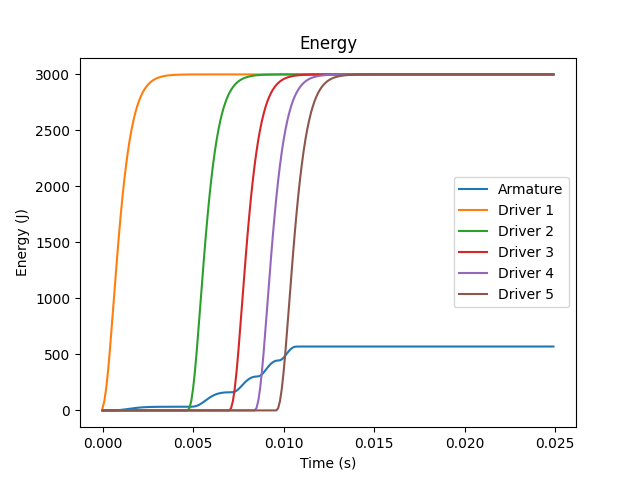
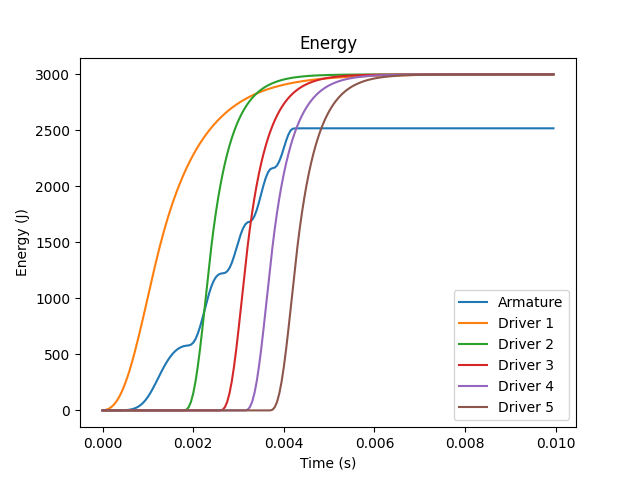
Crowbar diode + optimization algorithm

diff --git a/Simulation/main.py b/Simulation/main.py
@@ -8,39 +8,38 @@ copper = parameters.copper
 
 # Coils
 # Material, inner radius, length, layers, wire diameter):
-armature = classes.Coil(copper, 0.0125, 0.1, 1, 0.00205)
+armature = classes.Coil(copper, 0.0125, 0.1, 1, 0.001024)
 
 driver1 = classes.Coil(copper, 0.015, 0.1, 2, 0.00205)
-driver2 = classes.Coil(copper, 0.015, 0.1, 2, 0.00205)
-driver3 = classes.Coil(copper, 0.015, 0.1, 2, 0.00205)
-driver4 = classes.Coil(copper, 0.015, 0.1, 2, 0.00205)
-driver5 = classes.Coil(copper, 0.015, 0.1, 2, 0.00205)
+driver2 = classes.Coil(copper, 0.015, 0.1, 1, 0.00205)
+driver3 = classes.Coil(copper, 0.015, 0.1, 1, 0.00205)
+driver4 = classes.Coil(copper, 0.015, 0.1, 1, 0.00205)
+driver5 = classes.Coil(copper, 0.015, 0.1, 1, 0.00205)
 
 # Stages
-# Coil, position, trigger position, capacitance, voltage
-stage1 = classes.Stage(driver1, 0.0, 0.0, 0.003 * 2, 1000)
+# Coil, position, trigger position, capacitance, charge voltage
+stage1 = classes.Stage(driver1, 0, 0, 0.003 * 2, 1000)
 stage2 = classes.Stage(driver2, 0.1, 0.1, 0.003 * 2, 1000)
 stage3 = classes.Stage(driver3, 0.2, 0.2, 0.003 * 2, 1000)
 stage4 = classes.Stage(driver4, 0.3, 0.3, 0.003 * 2, 1000)
 stage5 = classes.Stage(driver5, 0.4, 0.4, 0.003 * 2, 1000)
 
 # Projectile
-# Coil, position, mass
+# Coil, initial position, mass
 projectile = classes.Projectile(armature, 0.01, 0.1)
 
 stage_list = [stage1, stage2, stage3, stage4, stage5]
 efficiency = []
 
-runtime = 0.025
-timestep = 0.0001
+runtime = 0.01
+timestep = 0.00005
 
 for step in np.arange(0, runtime, timestep):
     # Timestep, step, driver list, projectile
     output = run.run_turn(timestep, stage_list, projectile)
 
     driver_energy_sum = driver1.energy + driver2.energy + driver3.energy + driver4.energy + driver5.energy
-    efficiency.append(armature.energy / driver_energy_sum + 0.001)
-
+    efficiency.append(armature.energy / (driver_energy_sum + 0.001))
 
 time = np.arange(0, runtime, timestep)
 
@@ -54,10 +53,10 @@ v.plot(time, projectile.velocity_list)
 v.set(xlabel='Time (s)', ylabel='Velocity (m/s)', title='Projectile Velocity')
 figv.savefig("vel.png")
 
-# figa, p = plt.subplots()
-# p.plot(time, projectile.acceleration_list)
-# p.set(xlabel='Time (s)', ylabel='Acceleration (m/s^2)', title='Projectile Acceleration')
-# figa.savefig("accel.png")
+figa, p = plt.subplots()
+p.plot(time, projectile.acceleration_list)
+p.set(xlabel='Time (s)', ylabel='Acceleration (m/s^2)', title='Projectile Acceleration')
+figa.savefig("accel.png")
 
 figi, i = plt.subplots()
 i.plot(time, projectile.coil.currents_list)
@@ -66,6 +65,14 @@ for stage in range(len(stage_list)):
 i.set(xlabel='Time (s)', ylabel='Currents (A)', title='Currents')
 i.legend(['Armature', 'Driver 1', 'Driver 2', 'Driver 3', 'Driver 4', 'Driver 5'])
 figi.savefig("currents.png")
+
+figv, v = plt.subplots()
+v.plot(time, projectile.coil.voltage_list)
+for stage in range(len(stage_list)):
+    v.plot(time, stage_list[stage].coil.voltage_list)
+v.set(xlabel='Time (s)', ylabel='Voltages (V)', title='Voltages')
+v.legend(['Armature', 'Driver 1', 'Driver 2', 'Driver 3', 'Driver 4', 'Driver 5'])
+figv.savefig("voltages.png")
 
 fign, n = plt.subplots()
 n.plot(time, efficiency)

diff --git a/Simulation/classes.py b/Simulation/classes.py
@@ -6,9 +6,12 @@ import numpy as np
 class Coil:
     def __init__(self, material, r_inner, length, layers, wire_d):
         self.current = 0
+        self.voltage = 0
         self.energy = 0
         self.temp = parameters.ambient_temp
         self.time_on = 0
+        self.peak_current = 0
+        self.diode_step = 0
 
         self.r_inner = r_inner
         self.length = length
@@ -19,7 +22,7 @@ class Coil:
         self.layer_turns = []
         for l in range(layers):
             self.layer_turns.append(round(length / wire_d))
-            print("Layer", l, self.layer_turns[l], "Turns")
+            # print("Layer", l, self.layer_turns[l], "Turns")
 
         self.r_outer = r_inner + (layers - 1) * wire_d
         self.r_avg = (r_inner + self.r_outer) / 2
@@ -37,28 +40,41 @@ class Coil:
         self.tau = self.inductance / self.resistance
 
         self.currents_list = []
+        self.voltage_list = []
         self.energy_list = []
         self.temperature_list = []
 
-        print("Wire Length", self.wire_length, "m")
-        print("Wire Mass", self.wire_mass, "kg")
+        # print("Wire Length", self.wire_length, "m")
+        # print("Wire Mass", self.wire_mass, "kg")
         print("Turns", self.turns)
-        print("mass", self.wire_mass, "kg")
+        print("Coil Length", self.length)
+        print("Wire Diameter", self.wire_d)
+        print("Layers", self.layers)
+        # print("Resistance", self.wire_resistance, "Ohm")
+        # print("Inductance", self.inductance, "H")
+
+    def __str__(self):
+        return f"Coil, {self.turns}({self.layers})"
 
 
 class Stage:
-    def __init__(self, coil, position, trigger_position, capacitance, voltage):
+    def __init__(self, coil, position, trigger_position, capacitance, initial_voltage):
         self.coil = coil
         self.pos = position  # Refers to axial distance of coil center
         self.trigger_pos = trigger_position
 
         self.capacitance = capacitance
-        self.voltage = voltage
+        self.initial_voltage = initial_voltage
+        self.voltage = 0
 
-        coil.resistance = 2 * math.sqrt(coil.inductance / self.capacitance)
-        coil.added_resistance = coil.resistance - coil.wire_resistance
         coil.pos = position
-        print("Added resistance", coil.added_resistance, "Ohms")
+        # coil.resistance = 2 * math.sqrt(coil.inductance / self.capacitance)
+        # coil.added_resistance = coil.resistance - coil.wire_resistance
+        # coil.tau = coil.inductance / coil.resistance
+        # print("Added resistance", coil.added_resistance, "Ohms")
+
+    def __str__(self):
+        return f"Driver, {self}({self.pos})"
 
 
 class Projectile:
@@ -74,6 +90,9 @@ class Projectile:
         self.velocity_list = []
         self.acceleration_list = []
         self.energy_list = []
+
+    def __str__(self):
+        return f"Projectile, {self}({self.pos})"
 
 
 class Material:

diff --git a/Simulation/methods.py b/Simulation/methods.py
@@ -22,7 +22,6 @@ def mutual_inductance(stage, projectile):
                     k_e = sp.special.ellipe(pow(k, 2))
 
                     M += -parameters.mu0 * math.sqrt(r1_eff * r2_eff) * ((k - 2 / k) * k_k + 2 / k * k_e)
-
     return M
 
 
@@ -31,9 +30,33 @@ def solve_currents(stage, projectile, driver_step, armature_step):
     driver = stage.coil
     M = mutual_inductance(stage, projectile)
 
-    driver.current = stage.voltage / driver.inductance * driver_step * \
-                          pow(math.e, -driver.resistance / (2 * driver.inductance) * driver_step)
-    armature.current = -M / armature.inductance * driver.current * (1 - pow(math.e, -armature_step / armature.tau))
+
+    # driver.current = stage.initial_voltage / driver.inductance * driver_step * \
+    #                       pow(math.e, -driver.resistance / (2 * driver.inductance) * driver_step)
+
+    # Natural response frequency
+    omega = math.sqrt(1/(driver.inductance * stage.capacitance) - pow(driver.resistance, 2) / (4 * pow(driver.inductance, 2)))
+
+    # Diode becomes active when capacitor voltage reaches 0
+    if(driver.voltage < 0):
+        # RL current model
+        driver.current = driver.peak_current * pow(math.e, -1 / driver.tau * (driver_step - driver.diode_step))
+        driver.voltage = -0.1
+    else:
+        # RLC current model
+        driver.current = (stage.capacitance * stage.initial_voltage * pow(math.e, -driver_step/(2 * driver.tau)) *
+                          (4 * pow(omega, 2) + pow(1 / driver.tau, 2)) * math.sin(driver_step * omega)) / (4 * omega)
+
+        # Capacitor voltage
+        driver.voltage = stage.initial_voltage * pow(math.e, -driver_step/(2 * driver.tau)) * \
+                         (1 / (2 * driver.tau * omega) * math.sin(omega * driver_step) + math.cos(omega * driver_step))
+
+        driver.peak_current = driver.current
+        driver.diode_step = driver_step
+
+    # transfer_eff = pow(M, 2) / (armature.inductance * driver.inductance)
+    transfer_eff = 1
+    armature.current = transfer_eff * -M / armature.inductance * driver.current * (1 - pow(math.e, -armature_step / armature.tau))
 
 
 def increment_time(timestep, coil):

diff --git a/Simulation/optimization.py b/Simulation/optimization.py
@@ -1,0 +1,71 @@
+import numpy as np
+import matplotlib.pyplot as plt
+import run_step as run
+import classes
+import parameters
+
+from scipy import optimize
+
+copper = parameters.copper
+
+
+
+def runSimulation(inputs):
+
+    length, layers, wire_d = inputs
+
+    layers = round(layers)
+
+    # Coils
+    # Material, inner radius, length, layers, wire diameter):
+    driver1 = classes.Coil(copper, 0.015, length, layers, wire_d)
+    armature = classes.Coil(copper, 0.0125, 0.1, 1, 0.001024)
+
+    # Stages
+    # Coil, position, trigger position, capacitance, voltage
+    stage1 = classes.Stage(driver1, 0.0, 0.0, 0.003 * 2, 1000)
+
+    # Projectile
+    # Coil, position, mass
+    projectile = classes.Projectile(armature, 0.01, 0.1)
+
+
+    stage_list = [stage1]
+
+    runtime = 0.01
+    timestep = 0.0001
+
+    for step in np.arange(0, runtime, timestep):
+        # Timestep, step, driver list, projectile
+        output = run.run_turn(timestep, stage_list, projectile)
+
+    max_velocity = max(projectile.velocity_list)
+    print(max_velocity, "m/s")
+
+    del projectile
+    del armature
+    del driver1
+    del stage1
+
+    return 1 / max_velocity
+
+
+guess = [0.05, 2, 0.00129]
+constraints = [[0, 0.5], [1, 10], [0, 0.1]]
+#result = optimize.minimize(runSimulation, guess, method="SLSQP" ,bounds=constraints)
+result = optimize.differential_evolution(runSimulation, bounds=constraints)
+
+print(result.x)
+
+# runSimulation(guess)
+
+# runtime = 0.01
+# timestep = 0.0001
+# time = np.arange(0, runtime, timestep)
+#
+# figv, v = plt.subplots()
+# v.plot(time, projectile.velocity_list)
+# v.set(xlabel='Time (s)', ylabel='Velocity (m/s)', title='Projectile Velocity')
+# figv.savefig("vel.png")
+#
+# plt.show()

diff --git a/Simulation/run_step.py b/Simulation/run_step.py
@@ -29,6 +29,7 @@ def run_turn(timestep, stage_list, projectile):
     methods.solve_resistance(armature)
 
     armature.currents_list.append(armature.current)
+    armature.voltage_list.append(armature.voltage)
     armature.energy_list.append(armature.energy)
     armature.temperature_list.append(armature.temp)
 
@@ -37,10 +38,8 @@ def run_turn(timestep, stage_list, projectile):
     for stage in stage_list:
         driver = stage.coil
         driver.currents_list.append(driver.current)
+        driver.voltage_list.append(driver.voltage)
         driver.energy_list.append(driver.energy)
         driver.temperature_list.append(driver.temp)
-
-
-
 
     return projectile, armature
